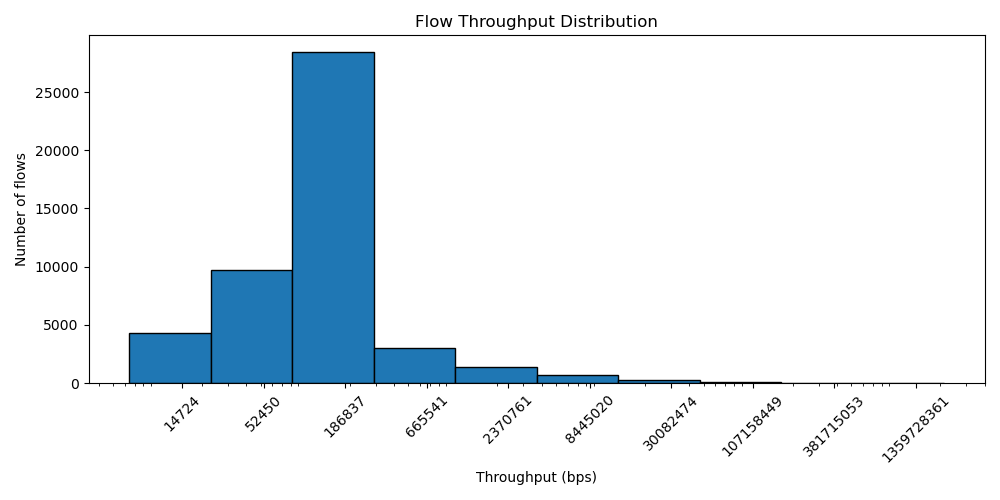
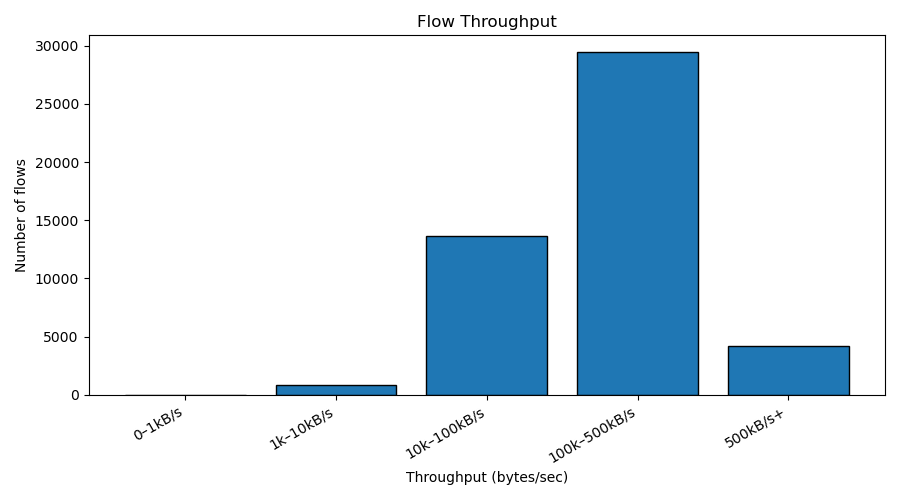
Plotting added for all histograms

diff --git a/examples/plot_hdr/src/main.rs b/examples/plot_hdr/src/main.rs
@@ -1,7 +1,9 @@
 // examples/plot_hdr/src/main.rs
 //
 // Histogram (bucketed counts):
-//   X-axis: value (duration/bytes/bps), log scale with 10^k tick labels
+//   X-axis: value (duration/bytes/bps)
+//     - duration / bytes: log scale with log buckets
+//     - throughput: linear scale with linear buckets
 //   Y-axis: number of flows in each bucket
 
 use hdrhistogram::{serialization::Deserializer, Histogram};
@@ -14,11 +16,11 @@ fn main() -> Result<(), Box<dyn std::error::Error>> {
         .expect("usage: plot_hdr <file.hdr> [out.png]");
     let out_path = env::args().nth(2).unwrap_or_else(|| "hist.png".to_string());
 
-    // Read HDRHistogram binary (written by Rust serializer)
+    // Read HDRHistogram binary
     let mut f = File::open(&in_path)?;
     let h: Histogram<u64> = Deserializer::new().deserialize(&mut f)?;
 
-    // If empty, still write an image with a message
+    // Empty histogram case
     if h.len() == 0 {
         let root = BitMapBackend::new(&out_path, (1000, 600)).into_drawing_area();
         root.fill(&WHITE)?;
@@ -29,82 +31,105 @@ fn main() -> Result<(), Box<dyn std::error::Error>> {
         return Ok(());
     }
 
-    // --- Build log-spaced buckets (powers of 10) up to max ---
-    let max_v = h.max().max(1);
-    let mut buckets: Vec<u64> = vec![1];
-    while *buckets.last().unwrap() <= max_v {
-        let next = buckets.last().unwrap().saturating_mul(10);
-        if next == *buckets.last().unwrap() {
-            break;
-        }
-        buckets.push(next);
-    }
-    if buckets.len() < 2 {
-        buckets.push(10);
-    }
+    // Decide x-axis label + behavior based on filename
+    let in_lower = in_path.to_lowercase();
+    let is_throughput =
+        in_lower.contains("throughput") || in_lower.contains("bps");
 
-    // Count flows in each [lo, hi] bucket
+    let x_label = if in_lower.contains("duration") {
+        "Duration (ms)"
+    } else if in_lower.contains("volume") || in_lower.contains("bytes") {
+        "Volume (bytes)"
+    } else if is_throughput {
+        "Throughput (bps)"
+    } else {
+        "Value"
+    };
+
+    // ---------------- Bucket construction ----------------
     let mut counts: Vec<((f64, f64), f64)> = Vec::new();
-    for w in buckets.windows(2) {
-        let lo = w[0];
-        let hi = w[1].saturating_sub(1).max(lo); // inclusive upper bound
-        let c = h.count_between(lo, hi) as f64;
-        counts.push(((lo as f64, (hi + 1) as f64), c)); // hi+1 => nicer bar width
+
+    if is_throughput {
+        // -------- Linear buckets for throughput --------
+        let min_v = h.min().max(0);
+        let max_v = h.max().max(min_v + 1);
+
+        let num_bins = 20;
+        let width = ((max_v - min_v) as f64 / num_bins as f64).max(1.0);
+
+        for i in 0..num_bins {
+            let lo = min_v as f64 + i as f64 * width;
+            let hi = if i == num_bins - 1 {
+                max_v as f64
+            } else {
+                lo + width
+            };
+
+            let c = h.count_between(lo as u64, hi as u64) as f64;
+            counts.push(((lo, hi), c));
+        }
+    } else {
+        // -------- Log buckets (powers of 10) --------
+        let max_v = h.max().max(1);
+        let mut buckets: Vec<u64> = vec![1];
+
+        while *buckets.last().unwrap() <= max_v {
+            let next = buckets.last().unwrap().saturating_mul(10);
+            if next == *buckets.last().unwrap() {
+                break;
+            }
+            buckets.push(next);
+        }
+
+        if buckets.len() < 2 {
+            buckets.push(10);
+        }
+
+        for w in buckets.windows(2) {
+            let lo = w[0];
+            let hi = w[1].saturating_sub(1).max(lo);
+            let c = h.count_between(lo, hi) as f64;
+            counts.push(((lo as f64, (hi + 1) as f64), c));
+        }
     }
 
+    // ---------------- Axis bounds ----------------
     let y_max = counts
         .iter()
         .map(|(_, c)| *c)
         .fold(0.0, f64::max)
         .max(1.0);
 
-    // Plot
+    let x_min = counts.first().unwrap().0 .0;
+    let x_max = counts.last().unwrap().0 .1.max(x_min + 1.0);
+
+    // ---------------- Plot ----------------
     let root = BitMapBackend::new(&out_path, (1100, 650)).into_drawing_area();
     root.fill(&WHITE)?;
 
-    let x_min = counts.first().unwrap().0 .0.max(1.0);
-    let x_max = counts.last().unwrap().0 .1.max(x_min + 1.0);
-
-    // Decide x-axis label based on input filename (case-insensitive)
-    let in_lower = in_path.to_lowercase();
-    let x_label = if in_lower.contains("duration") {
-        "Duration (ms, log scale)"
-    } else if in_lower.contains("volume") || in_lower.contains("bytes") {
-        "Volume (bytes, log scale)"
-    } else if in_lower.contains("throughput") || in_lower.contains("bps") {
-        "Throughput (bps, log scale)"
+    let mut chart = if is_throughput {
+        ChartBuilder::on(&root)
+            .margin(20)
+            .caption(format!("Histogram: {}", in_path), ("sans-serif", 24))
+            .x_label_area_size(60)
+            .y_label_area_size(90)
+            .build_cartesian_2d(x_min..x_max, 0f64..(y_max * 1.15))?
     } else {
-        "Value (log scale)"
+        ChartBuilder::on(&root)
+            .margin(20)
+            .caption(format!("Histogram: {}", in_path), ("sans-serif", 24))
+            .x_label_area_size(60)
+            .y_label_area_size(90)
+            .build_cartesian_2d((x_min..x_max).log_scale(), 0f64..(y_max * 1.15))?
     };
-
-    let mut chart = ChartBuilder::on(&root)
-        .margin(20)
-        .caption(format!("Histogram: {}", in_path), ("sans-serif", 24))
-        .x_label_area_size(60)
-        .y_label_area_size(90)
-        .build_cartesian_2d((x_min..x_max).log_scale(), 0f64..(y_max * 1.15))?;
 
     chart
         .configure_mesh()
         .x_desc(x_label)
         .y_desc("Number of flows")
-        // Format tick labels like 10^6 instead of 1000000
-        .x_label_formatter(&|v| {
-            if *v <= 0.0 {
-                return "0".to_string();
-            }
-            let k = v.log10().round() as i32;
-            // Only label clean powers of 10; otherwise leave blank to reduce clutter
-            let pow10 = 10f64.powi(k);
-            if (v / pow10 - 1.0).abs() < 1e-9 {
-                format!("10^{}", k)
-            } else {
-                "".to_string()
-            }
-        })
         .draw()?;
 
-    // Draw bars
+    // ---------------- Bars ----------------
     chart.draw_series(counts.iter().map(|((lo, hi), c)| {
         Rectangle::new([(*lo, 0.0), (*hi, *c)], BLUE.mix(0.6).filled())
     }))?;
@@ -113,4 +138,3 @@ fn main() -> Result<(), Box<dyn std::error::Error>> {
     eprintln!("Wrote {}", out_path);
     Ok(())
 }
-

diff --git a/examples/plot_hist.py b/examples/plot_hist.py
@@ -131,4 +131,20 @@ if __name__ == "__main__":
         out / "directionality.png"
     )
 
+    # ---------- Throughput ----------
+    throughput = load_hist(base / "throughput_bps.csv")
+    throughput_buckets = [
+        (0, 1_000, "0–1kB/s"),
+        (1_000, 10_000, "1k–10kB/s"),
+        (10_000, 100_000, "10k–100kB/s"),
+        (100_000, 500_000, "100k–500kB/s"),
+        (500_000, None, "500kB/s+"),
+    ]
+    plot_bars(
+        bucketize(throughput, throughput_buckets),
+        "Flow Throughput",
+        "Throughput (bytes/sec)",
+        out / "throughput.png"
+    )
+
     print("All plots written to ./plots/")
